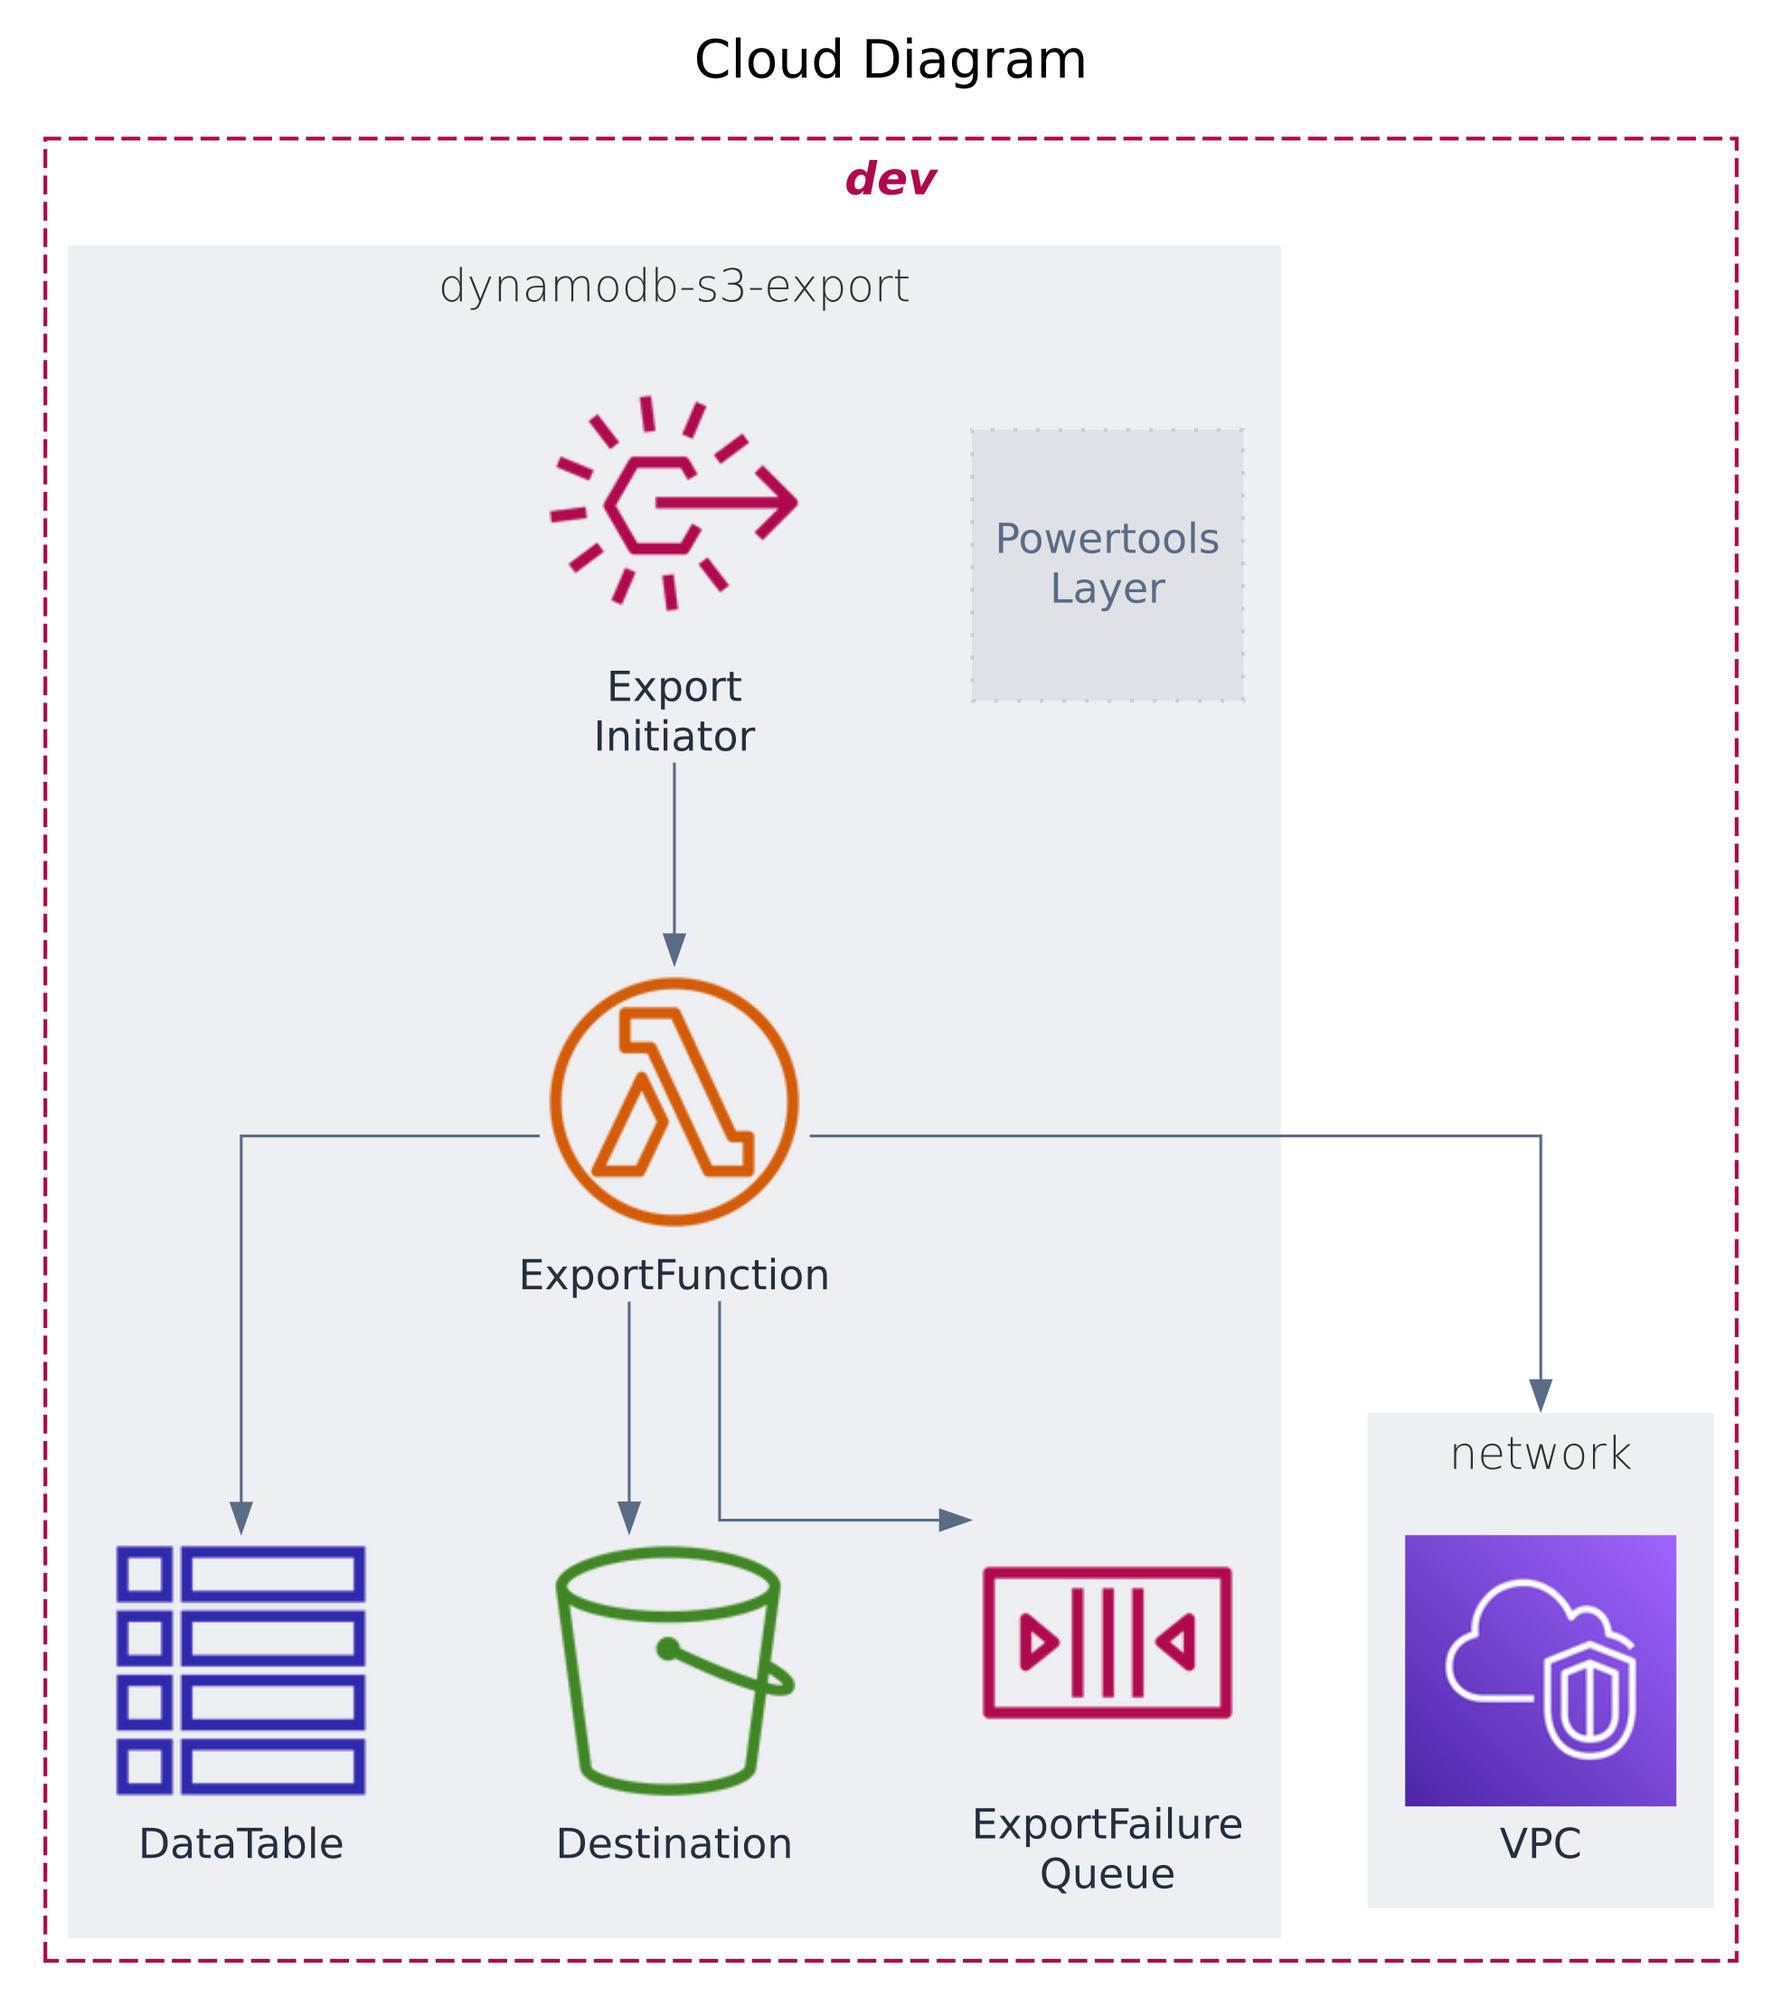
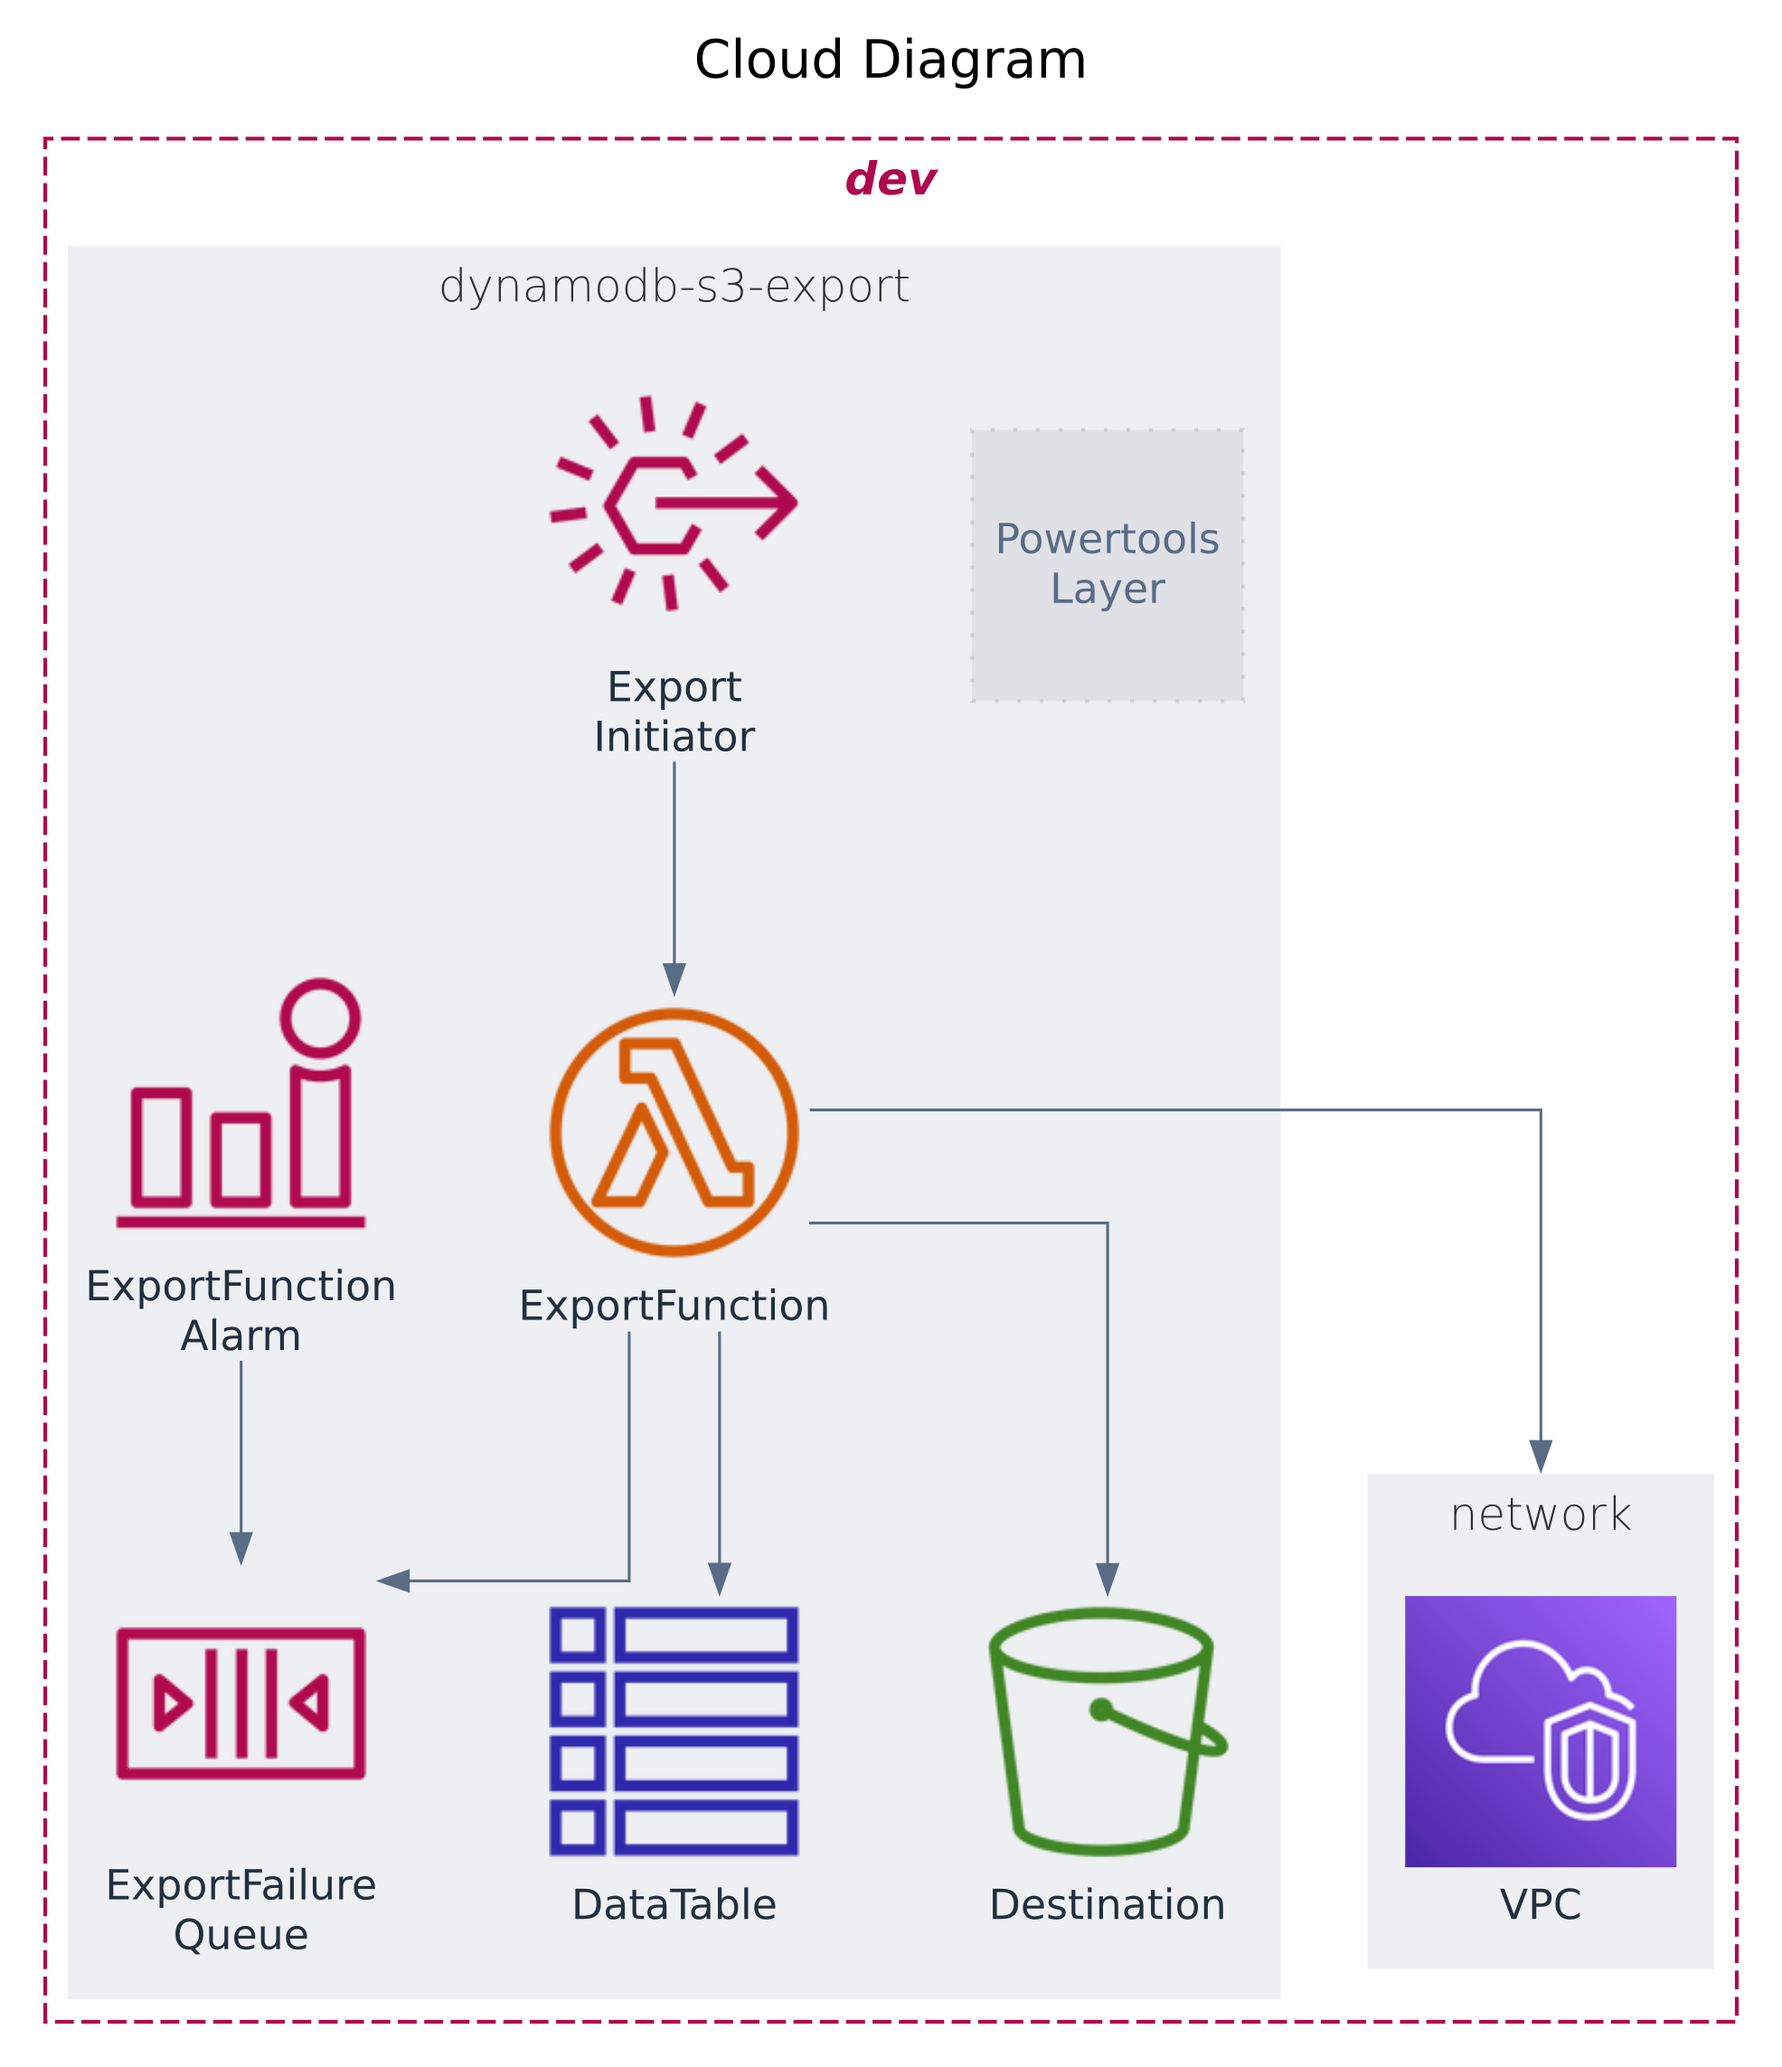
feat: add export lambda dlq alarm

diff --git a/src/dynamodb-s3-export.stack.ts b/src/dynamodb-s3-export.stack.ts
@@ -1,4 +1,5 @@
 import { Duration, Stack, StackProps } from "aws-cdk-lib";
+import { Alarm } from "aws-cdk-lib/aws-cloudwatch";
 import { AttributeType, Table } from "aws-cdk-lib/aws-dynamodb";
 import { Vpc } from "aws-cdk-lib/aws-ec2";
 import { Rule, Schedule } from "aws-cdk-lib/aws-events";
@@ -48,11 +49,13 @@ export class DynamoDBS3ExportStack extends Stack {
     enforceSSL: true,
   });
 
+  exportFunctionDLQ = new Queue(this, "ExportFailureQueue");
+
   exportLambda = new ExportFunction(
     this,
     "ExportFunction",
     Object.assign(this.lambdaCommonProps, {
-      onFailure: new SqsDestination(new Queue(this, "ExportFailureQueue")),
+      onFailure: new SqsDestination(this.exportFunctionDLQ),
     })
   );
 
@@ -86,5 +89,12 @@ export class DynamoDBS3ExportStack extends Stack {
       "POWERTOOLS_SERVICE_NAME",
       "ExportProcess"
     );
+
+    new Alarm(this, "ExportFunctionAlarm", {
+      alarmDescription: "There are messages in the Dead Letter Queue",
+      evaluationPeriods: 1,
+      threshold: 1,
+      metric: this.exportFunctionDLQ.metricApproximateNumberOfMessagesVisible(),
+    });
   }
 }
